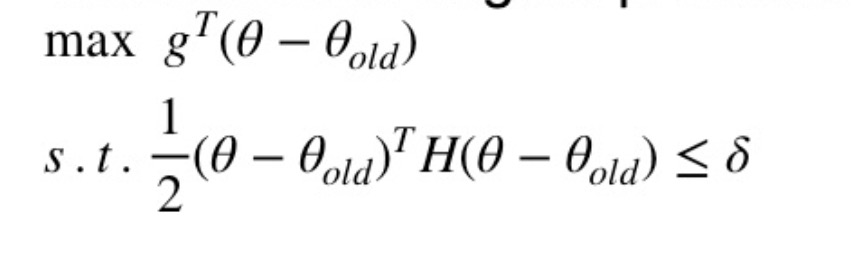
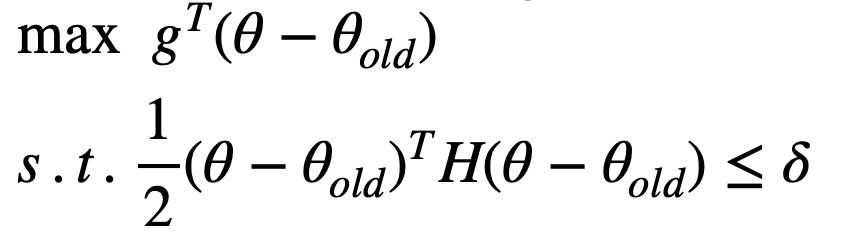
add trpo

diff --git a/PolicyGradient/TRPO/README.md b/PolicyGradient/TRPO/README.md
@@ -31,7 +31,9 @@ Value Net 的更新本质上就是最小化loss的过程，不过原始的深度
 
 Policy Net 的更新较复杂。其近似问题是:
 
-![2]
+<p float="center">
+    <img src="images/trpo-problem.png" width="300"/>
+</p>
 
 1. 计算目标函数的参数梯度 $g^{T}$
 
